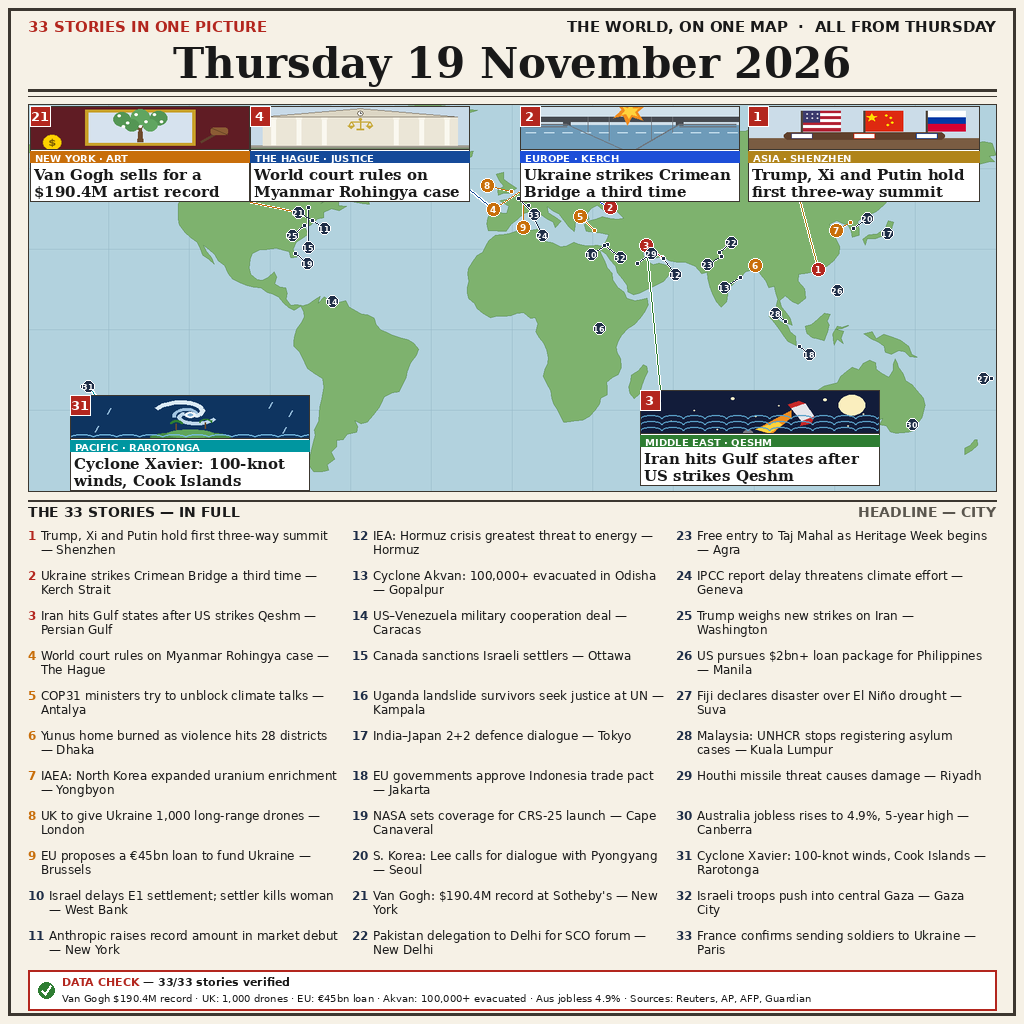
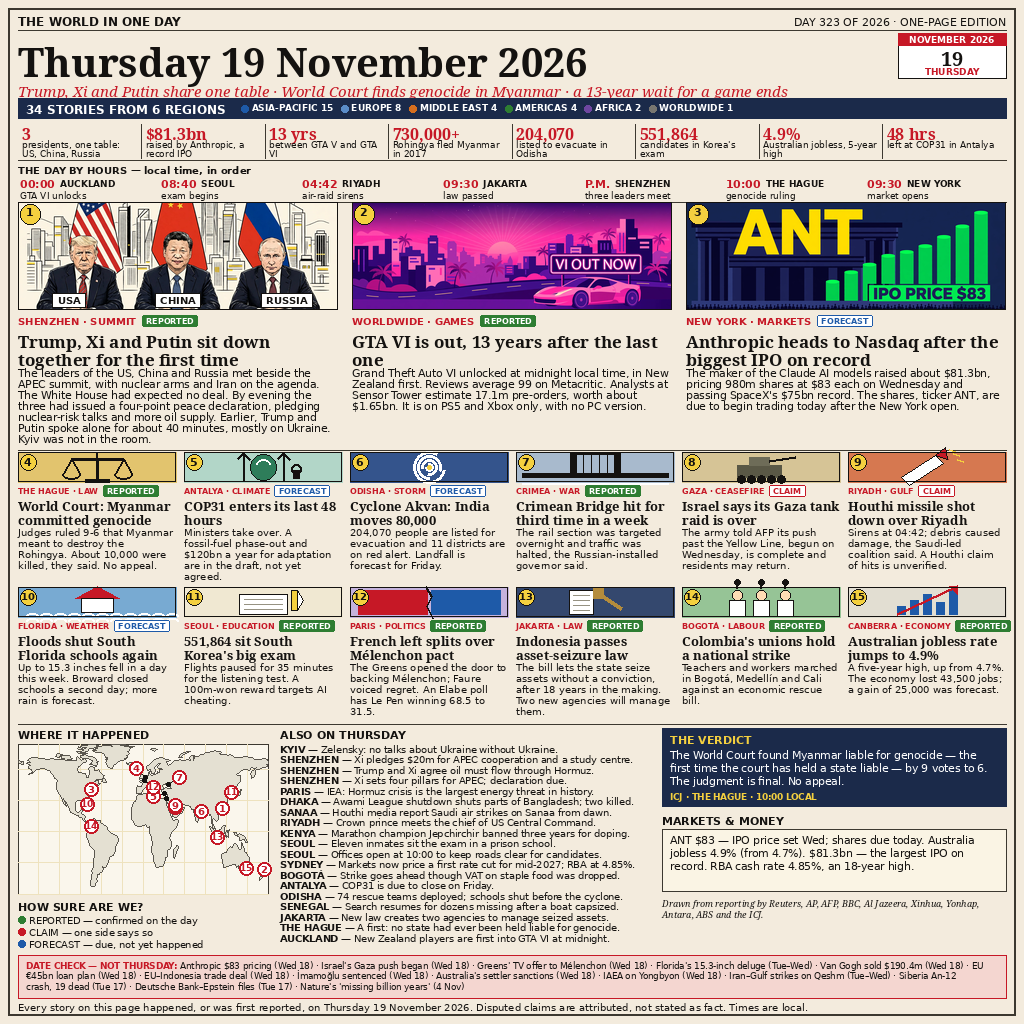
Replace entry.png, main.py, and README.md

diff --git a/main.py b/main.py
@@ -1,33 +1,50 @@
-#!/usr/bin/env python3
-"""Entry point for the news-image-20261119 entry (acct4, MAP-LED).
+"""make.fun entry: news-image-20261119, account 4 (lathixbt).
 
-Copies the pre-rendered entry.png (a 1024x1024 newspaper infographic
-summing up Thursday 19 November 2026: the world map as the hero, with
-6 story callouts on it and a full 33-story index below) into the
-directory named by MAKEFUN_OUTPUT_DIR (default /output).
+Copies the pre-built entry.png (1024x1024, one-page newspaper front page
+summing up Thursday 19 November 2026) byte-for-byte into the directory
+named by MAKEFUN_OUTPUT_DIR (default /output).
 
-The image is fixed: this program never draws, downloads, or modifies
-anything. It only copies the file that ships in this repository, so
-both grader runs write identical bytes.
-
-Standard library only. Deterministic: the same bytes are written on
-every run.
+Python 3.13, standard library only. Writes nothing to the current
+working directory. Verifies the copied file's size and SHA-256 afterwards.
 """
+
+import hashlib
 import os
 import shutil
+import sys
+
+ENTRY_NAME = "entry.png"
 
 
-def main():
-    out_dir = os.environ.get("MAKEFUN_OUTPUT_DIR", "/output")
-    os.makedirs(out_dir, exist_ok=True)
+def main() -> int:
     here = os.path.dirname(os.path.abspath(__file__))
-    src = os.path.join(here, "entry.png")
-    if not os.path.isfile(src):
-        raise SystemExit(f"entry.png not found next to {__file__}")
-    dst = os.path.join(out_dir, "entry.png")
+    src = os.path.join(here, ENTRY_NAME)
+    out_dir = os.environ.get("MAKEFUN_OUTPUT_DIR") or "/output"
+    os.makedirs(out_dir, exist_ok=True)
+    dst = os.path.join(out_dir, ENTRY_NAME)
+
+    with open(src, "rb") as f:
+        digest_src = hashlib.sha256(f.read()).hexdigest()
+    size_src = os.path.getsize(src)
+
     shutil.copyfile(src, dst)
-    print(f"copied {src} -> {dst} ({os.path.getsize(dst)} bytes)")
+
+    with open(dst, "rb") as f:
+        digest_dst = hashlib.sha256(f.read()).hexdigest()
+    size_dst = os.path.getsize(dst)
+
+    if size_dst != size_src or digest_dst != digest_src:
+        print("ERROR: copied file does not match source", file=sys.stderr)
+        print("  source: %d bytes sha256 %s" % (size_src, digest_src),
+              file=sys.stderr)
+        print("  copied: %d bytes sha256 %s" % (size_dst, digest_dst),
+              file=sys.stderr)
+        return 1
+
+    print("wrote %s (%d bytes, sha256 %s)" % (dst, size_dst, digest_dst))
+    print("entry: Thursday 19 November 2026 — 34 stories, one page")
+    return 0
 
 
 if __name__ == "__main__":
-    main()
+    raise SystemExit(main())

diff --git a/README.md b/README.md
@@ -1,22 +1,35 @@
-# Thursday 19 November 2026 — The World, on One Map
+[![make.fun](https://make.fun/badge/news-image-20261119.svg)](https://make.fun/bounty/news-image-20261119)
+[![Rank](https://make.fun/badge/news-image-20261119/lathixbt/news-image-20261119-entry-acct4/rank.svg)](https://make.fun/bounty/news-image-20261119)
+[![Reward](https://make.fun/badge/news-image-20261119/lathixbt/news-image-20261119-entry-acct4/reward.svg)](https://make.fun/bounty/news-image-20261119)
 
-[![news-image-20261119](https://make.fun/badge/news-image-20261119.svg)](https://make.fun/bounty/news-image-20261119)
-[![rank](https://make.fun/badge/news-image-20261119/lathixbt/news-image-20261119-entry-acct4/rank.svg)](https://make.fun/bounty/news-image-20261119)
-[![reward](https://make.fun/badge/news-image-20261119/lathixbt/news-image-20261119-entry-acct4/reward.svg)](https://make.fun/bounty/news-image-20261119)
+# Thursday 19 November 2026 — The World in One Day
 
-One picture summing up Thursday 19 November 2026: **33 stories in one
-image, MAP-LED** — the world map is the hero.
+A single square infographic (1024×1024): a dense one-page newspaper front
+page summing up Thursday 19 November 2026 in 34 verified stories from
+6 regions.
 
-- A full world map (Natural Earth coastline) dominates the top half,
-  with all 33 stories pinned on it by number.
-- Six stories are called out directly on the map, each with its own
-  picture and a leader line to its pin: the Trump–Xi–Putin summit
-  (Shenzhen), the Crimean Bridge strike, Iran's Gulf strikes, the
-  ICJ Rohingya ruling (The Hague), Van Gogh's $190.4M record
-  (New York), and Cyclone Xavier (Rarotonga).
-- Below the map, a numbered index lists all 33 stories with their
-  headline and city, followed by a DATA CHECK strip (33/33 verified).
+## Design
 
-`main.py` (Python 3.13, standard library only) copies `entry.png`
-into `MAKEFUN_OUTPUT_DIR`. The image is pre-rendered and fixed, so
-both runs write identical bytes.
+Warm cream newsprint, black serif headlines, one red accent, a dark navy
+region bar. Top to bottom: masthead with a red calendar tile, red subhead,
+a stats strip (3 presidents, $81.3bn IPO, 13 years of GTA, 730,000+
+Rohingya, 204,070 evacuations, 551,864 exam candidates, 4.9% jobless,
+48 hours of COP31), a "day by hours" timeline, three large hero cards
+(Shenzhen summit, GTA VI, Anthropic IPO) with AI-generated scenes,
+twelve small cards with flat PIL-drawn icons, a world map with 15 numbered
+pins, 19 "also on Thursday" briefs, a verdict box, a markets box, and a
+red DATE CHECK box listing the stories that did *not* happen on Thursday.
+A "how sure are we?" legend explains the REPORTED / CLAIM / FORECAST labels.
+
+Every story was verified against live reporting before drawing; two
+corrections were made against the first draft (Xi's APEC pledge is $20m,
+not $20bn; the Canada–China deal was announced Tuesday 17 November, so it
+was dropped). Disputed claims are labelled CLAIM, not-yet-happened items
+FORECAST.
+
+## Files
+
+- `entry.png` — the poster (1024×1024, built by `compose_acct4.py` with PIL)
+- `main.py` — Python 3.13 stdlib-only copier to `MAKEFUN_OUTPUT_DIR`
+- `VERIFY-acct4.md` — one-line verification status per story, with sources
+- `compose_acct4.py` — the generator script that draws `entry.png`
